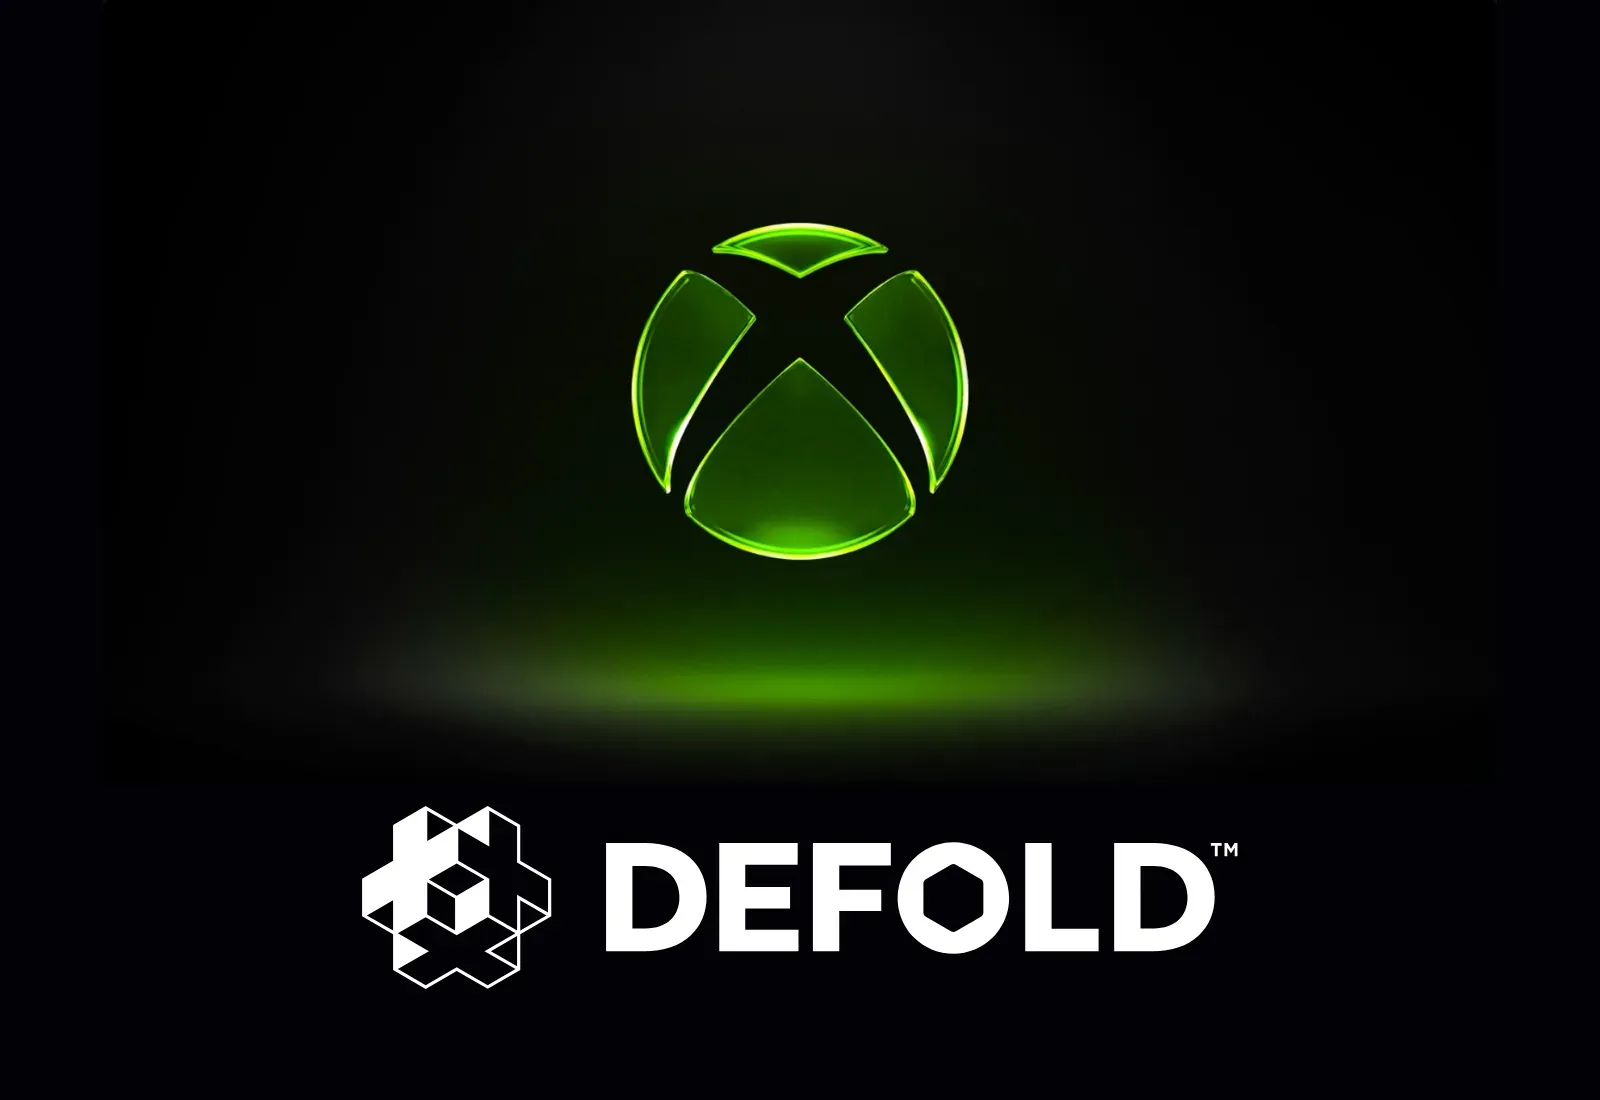
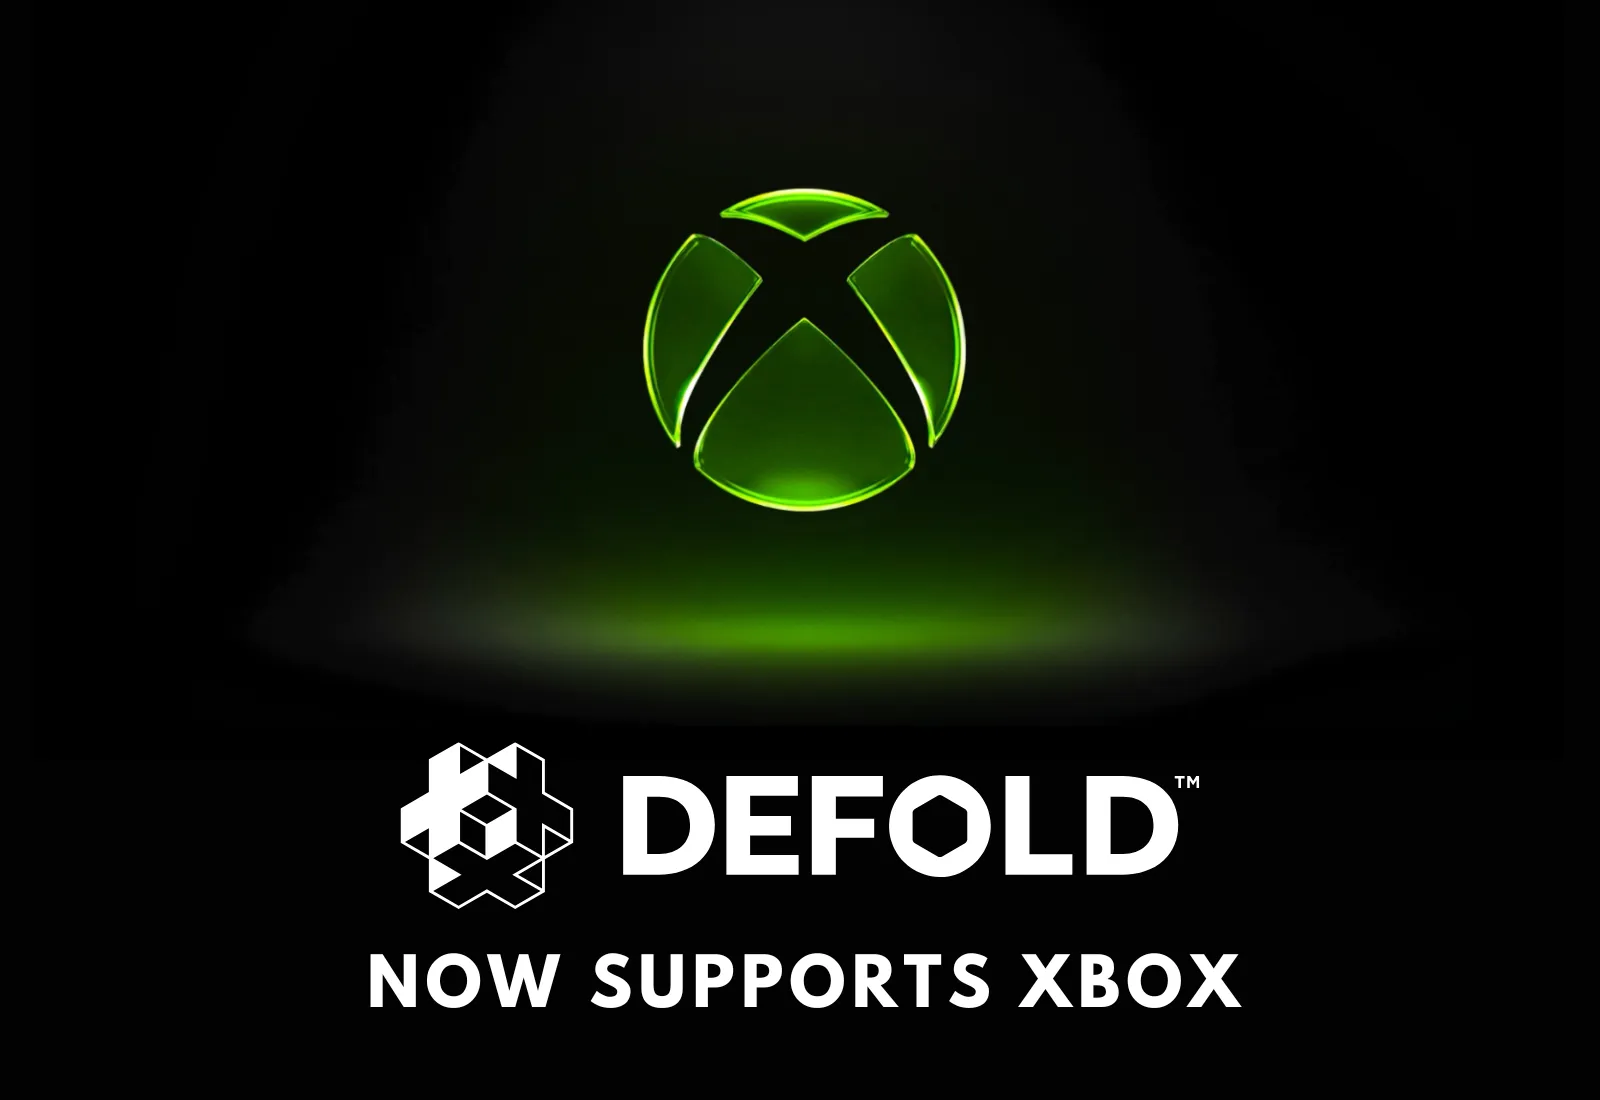
Applied review suggestions and changed Xbox thumbnail.

Changed region(s): [[0.2188, 0.1545, 0.7812, 0.9273]]

diff --git a/_posts/2026-10-12-Defold-1-14-0.md b/_posts/2026-10-12-Defold-1-14-0.md
@@ -12,7 +12,7 @@ opengraph_image_alt: Defold 1.14.0 release
 
 **Defold 1.14.0 is now available!** Released today, October 12, this version brings new tools for custom rendering and several improvements to everyday work in the editor. Cubemap render targets open up new possibilities for reflections and environment capture, the Material Editor gets a clearer layout, and macOS games now use Metal by default.
 
-This release also prepares Defold for **iPhone Duo** and adds **Microsoft Xbox support** expanding the platforms you can reach with your games. We will cover Xbox support in a separate announcement.
+This release also prepares Defold for **iPhone Duo** and adds **Microsoft Xbox support**, expanding the platforms you can reach with your games. We will cover Xbox support in a separate announcement.
 
 ## Highlights in Defold 1.14.0
 
@@ -29,7 +29,7 @@ This release also prepares Defold for **iPhone Duo** and adds **Microsoft Xbox s
 
 ## Xbox support
 
-Since Defold 1.14.0 you can build your games for  **Microsoft Xbox console**. This is another step in making Defold available across desktop, mobile, web, and console platforms, giving developers more opportunities to bring their games to players.
+Starting with Defold 1.14.0, you can build your games for **Microsoft Xbox consoles**. This is another step in making Defold available across desktop, mobile, web, and console platforms, giving developers more opportunities to bring their games to players.
 
 We will share the details of Xbox support and how to get started in a dedicated blog post.
 
@@ -58,7 +58,7 @@ The color attachment can be sampled in a shader with `samplerCube`. Cubemap atta
 
 ## A clearer Material Editor
 
-The [Material Editor redesign](https://github.com/defold/defold/pull/13311) makes material settings easier to navigate. Section headers separate the different parts of a material, and in a table you can see the entries and a dedicated form to edit the current selection. Choice boxes throughout the editor have also been made narrower.
+The [Material Editor redesign](https://github.com/defold/defold/pull/13311) makes material settings easier to navigate. Section headers separate the different parts of a material. Entries appear in a table, with a dedicated form for editing the current selection. Choice boxes throughout the editor have also been made narrower.
 
 ![The redesigned Material Editor with a selected entry and its editing form](/images/posts/releases/defold-1-14-0/material_editor.webp)
 
@@ -66,7 +66,7 @@ The [Material Editor redesign](https://github.com/defold/defold/pull/13311) make
 
 This release [reduces unnecessary editor CPU work](https://github.com/defold/defold/pull/13232) when resizing the window, focusing property fields, and leaving a GUI scene idle with several tabs open.
 
-In our measurements, the changes reduced JavaFX CPU work during resizing by about 34% and total process CPU usage during the tested GUI idle workload by about 25%. We measured specific workloads, so results will vary with your project and on your machine.
+In our measurements, the changes reduced JavaFX CPU work during resizing by about 34% and total process CPU usage during the tested GUI idle workload by about 25%. We measured specific workloads, so results will vary depending on your project and machine.
 
 ## Editor improvements
 
@@ -82,16 +82,16 @@ We also improved text shaping in the editor for complex scripts, emojis, and bid
 
 ## Breaking changes and migration
 
-This release also includes a few breaking changes, but most of them affects native extension code only. Check them though before upgrading an existing project. Use version control to secure your project, then build and test on your target platforms after updating.
+This release also includes a few breaking changes. Some affect native extension code, while others affect project settings, editor plugins, or platform support. Review these changes before upgrading an existing project. Use version control to secure your project, then build and test on your target platforms after updating.
 
-[Generational game object handles](https://github.com/defold/defold/pull/13083) make retained native handles safer: deleted objects and collections are rejected even when their storage is reused. Collections can now contain up to 1,048,576 game objects, subject to project capacity settings and available resources. **This changes the native ABI:** rebuild precompiled dmSDK libraries and replace pointer-based assumptions about opaque handles with handle-sized storage. This migration regards only native C++ code and libraries, regular Lua game object code does not need to change for the new handles.
+[Generational game object handles](https://github.com/defold/defold/pull/13083) make retained native handles safer: deleted objects and collections are rejected even when their storage is reused. Collections can now contain up to 1,048,576 game objects, subject to project capacity settings and available resources. **This changes the native ABI:** rebuild precompiled dmSDK libraries and replace pointer-based assumptions about opaque handles with handle-sized storage. This migration applies only to native C++ code and libraries. Regular Lua game object code does not need to change for the new handles.
 
 The other breaking changes are:
 
 * **Shared Lua state is now mandatory.** It has already been enabled by default, so projects using that default don't need to take any action. Only projects that disabled it need to refactor code relying on separate globals or loaded-module caches for game object, GUI, and render scripts.
 * **32-bit Windows support has been removed.** Previously, both 32-bit and 64-bit Windows targets were supported. Projects already targeting `x86_64-win32` can keep that target, but build scripts using `x86-win32` must switch to `x86_64-win32`.
 * **Accelerometer input is now disabled by default.** Previously, it was enabled by default. If your game uses acceleration events, explicitly enable it in `game.project`. Games that do not use accelerometer input require no changes here.
-* **The editor plugin resource-type API has changed.** Update plugins that register resource types to use the new reader and loader signatures. This only affects editor plugins using that API. See the example in [extension-simpledata migration PR](https://github.com/defold/extension-simpledata/pull/23).
+* **The editor plugin resource-type API has changed.** Update plugins that register resource types to use the new reader and loader signatures. This only affects editor plugins using that API. See the example in the [extension-simpledata migration PR](https://github.com/defold/extension-simpledata/pull/23).
 * **The native render-target binding API has changed.** Native graphics code using the old `SetRenderTarget()` overload with a transient-buffer bitmask must switch to the cubemap-aware binding parameters. This C++ API migration does not require changes to existing Lua render scripts using ordinary render targets.
 * **Projects using iOS links need an updated IAC extension.** If your project uses custom-scheme URLs or universal links, update IAC and test both links opened in the running app and links that launch it.
 
@@ -101,8 +101,6 @@ The other breaking changes are:
 
 See the full [Release Notes](https://forum.defold.com/t/defold-1-14-0-beta/83288) for the complete list of new features, improvements and fixes.
 
-You can help Defold grow by sharing your work, contributing improvements, helping other developers in the community, or [supporting the Defold Foundation](/donate/). We look forward to seeing what you build with this release.
-
 ### Support Defold
 
-Defold is provided completely free of charge. If it helps you build your games, consider [supporting the Defold Foundation](/donate/) to help fund continued development. You can also support Defold by spreading the word, contributing code (thanks to `criccomini` for the contribution for this release!), testing releases, or helping other developers in the community, especially that it's Hacktoberfest time! Thank you for helping us moving forward!
+Defold is provided completely free of charge. If it helps you build your games, consider [supporting the Defold Foundation](/donate/) to help fund continued development. You can also support Defold by spreading the word, contributing code (thanks to `criccomini` for contributing to this release!), testing releases, or helping other developers in the community, especially now that it's Hacktoberfest! Thank you for helping us move forward!
